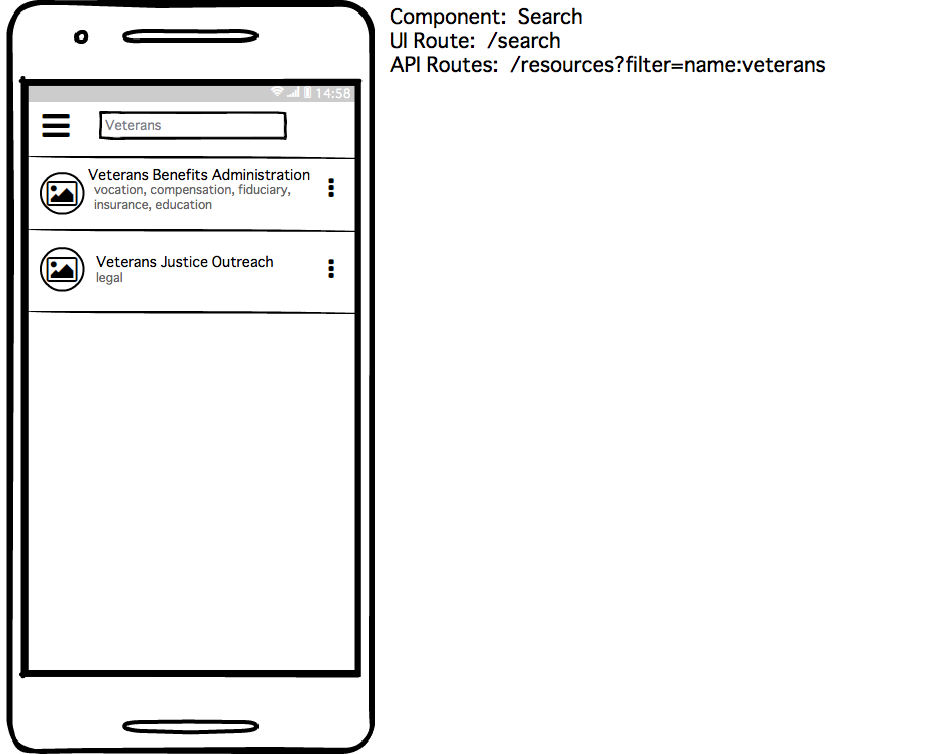
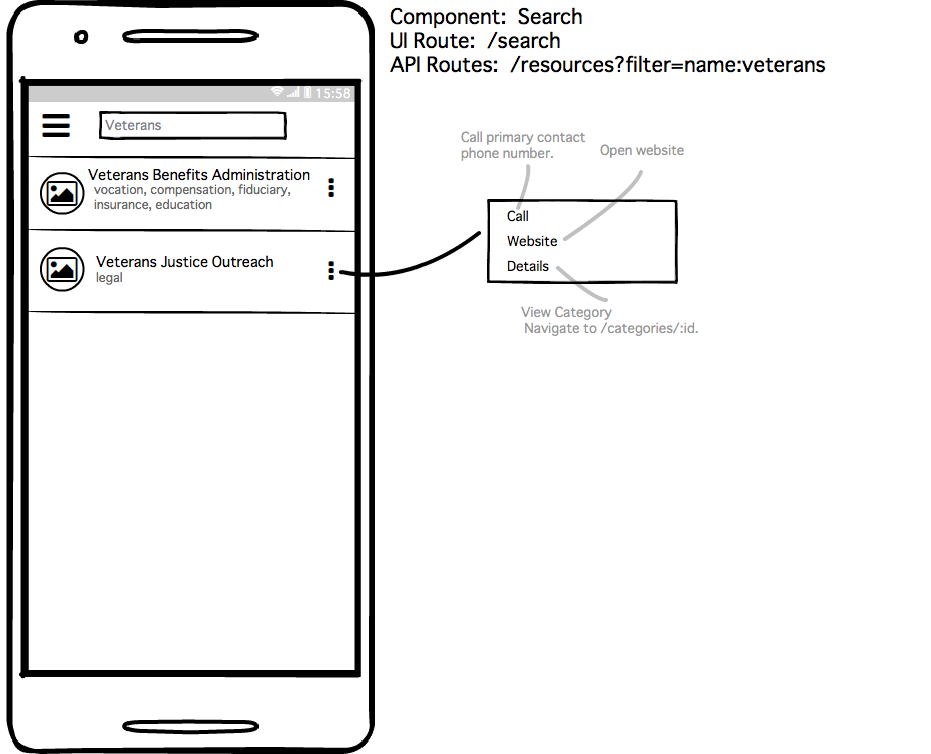
edits to schema, user stories, resource wireframe, search results wireframe

Changed region(s): [[0.3426, 0.1525, 0.7476, 0.4576], [0.7164, 0.2745, 0.7476, 0.366]]

diff --git a/user-stories.md b/user-stories.md
@@ -2,6 +2,66 @@
 
 ## Home
 
-As a veteran, I wish a simple menu of application options so that I can easily find the type of resource I am looking for. When I select resources, I wish to be taken to a listing of resources.  When I select categories, I wish to view the various categories of resources.
+As a veteran, I wish a simple menu of application options so that I can easily find the type of resource I am looking for. When I select "resources", I wish to be taken to a listing of resources.  When I select "categories", I wish to view the various categories of resources.  When I select "Search", I want the ability to search for resources.
 
-## 
+## View Resources
+
+As a veteran, I want the ability to select "Resources" from the menu / drawer and view a listing of resources so that I can find services, benefits and other veteran related information.
+
+Each item in the list should provide the following information:
+  - resource avatar image
+  - resource name
+  - short description
+
+Selecting a single resource from the list displays a detailed view.  See **View Resource**.
+
+## Filter Resources
+
+As a veteran, I want the ability to filter resources so that I can better locate the resource I need.  I want the ability to filter by:
+
+- resource categories
+  - Basic Needs Assistance
+  - Benefits
+  - Education/Vocational
+  - Employment
+  - Financial & Legal
+  - Government
+  - Health
+  - Housing
+  - Information & Referral
+  - Peer Support & Recreation
+  - Rehab & Rec Therapy
+  - Notes
+- top 10 resources
+- All (resets the filter)
+
+Selecting "All" from the filter removes any applied filter and displays all the resources in the list of resources.
+
+## View Resource
+
+As a veteran, I want the ability to see details information about a single resource so that I can determine if the resources will meet my needs. Display the following information:
+
+- A map of the primary addresses
+- primary address
+- primary phone number
+- formalName
+- short description
+- purpose
+
+## Call Resource
+
+As a veteran, when I am on the **Resource View** page, I want the ability to call the primary phone number by either clicking a button.   When I am viewing a listing of resources I want to select "Call" from a popup menu so that I can schedule an appointment for that resource or ask a question not covered by the FAQ (See **View Resource FAQ**).  Clicking the primary action button on the page will cause my mobile device to call the resource.  
+
+## Visit Resource Website
+
+As a veteran, when I am on the **Resource View** page, I want the ability to view resources web page so that I can find additional information about the resource.  Clicking the **website** r selecting "Website" from a popup menu, button will navigate the mobile device to the appropriate webpage.
+
+## Toggle Resource details
+
+As a veteran, when I am on the **Resource View** page, I want the ability to select a toggle switch so that I can view additional details about the resource such as:
+
+- purpose
+- addresses
+- contacts  
+
+## View Resource FAQ

diff --git a/db-schema.md b/db-schema.md
@@ -30,14 +30,13 @@
     categoryId: "category_basic-needs-assistance",
     name: "VA",
     formalName: "VA Homeless Prevention Program and Walk-In Clinic",
-    avatarImgURL: "https://blah"
+    avatarImgURL: "https://blah",
     shortDesc: "housing, medical",
     purpose: "The Ralph H. Johnson Veterans Affairs Medical Center offers a walk-in clinic for veterans searching for re-housing assistance and means to prevent homelessness. In addition to referral services, the walk-in clinic offers basic outpatient medical care.",
     website: "http://www.charleston.va.gov/services/homeless/index.asp",
     contacts: [
       {name: "Linda Williams", office: null, title: "", phone: "843-577-5011", email: null, isPrimary: true}
     ],
-
     addresses: [
       {
         isPrimary: true,
@@ -47,9 +46,10 @@
         state: "SC",
         zip: "29401"
       }],
-
-    rank: 10
-
+    rank: 10,
+    faq: [
+      {question: "What are you office hours?", answer: "M-F 9 a.m. to 4 p.m. except federal holidays.", sort: 10},
+      {question: "What forms of payment do you accept?", answer: "cash, debit, credit", sort: 20},
+    ]
   }
-
   ```
